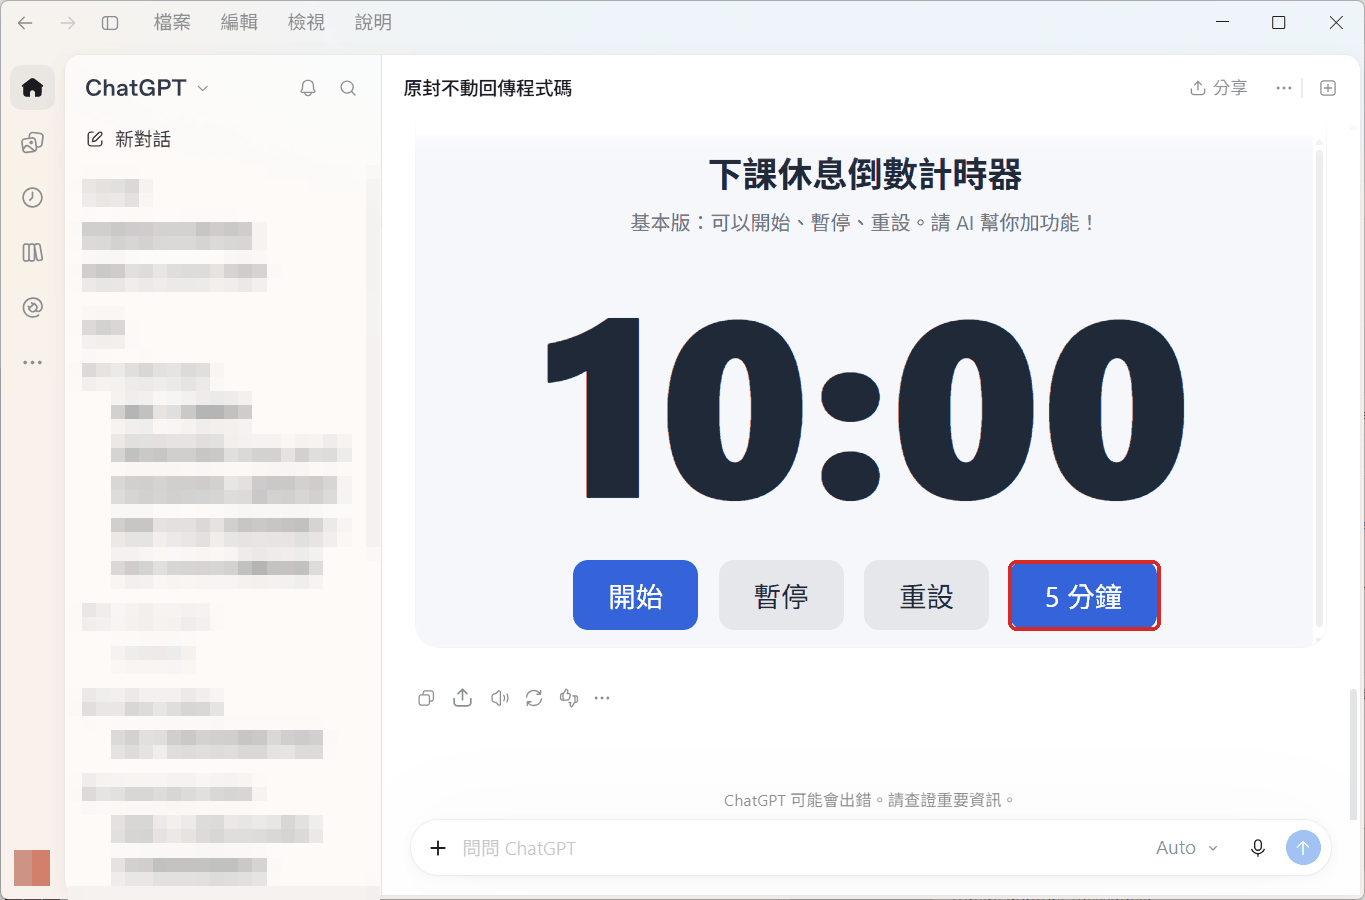
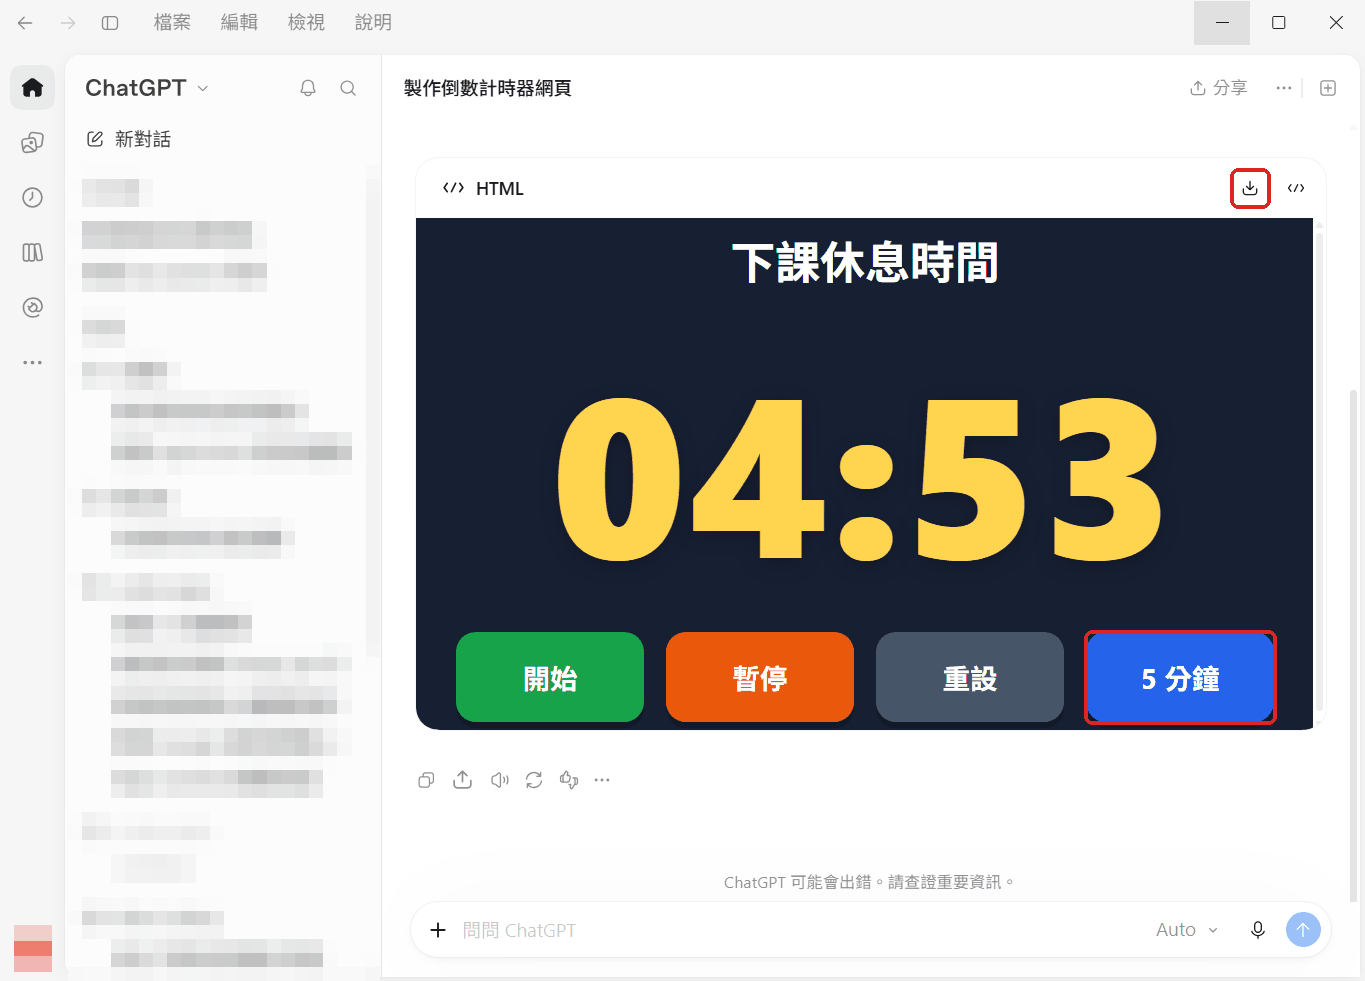
更新教學網站：連接資料夾步驟改用實機確認的文字並附截圖；暖身重拍預覽截圖、改用預覽的下載圖示存檔

diff --git a/course-data.js b/course-data.js
@@ -156,7 +156,7 @@ window.COURSE = {
     safety: '課堂只用講師提供的假資料。不要把真實員工、病人資料、帳號密碼、公司機密貼給 AI。',
     folderTree: `桌面/
 └── AI實作/
-    ├── timer.html         ← 單元一：貼上工具下載
+    ├── timer.html         ← 單元一：聊天預覽的下載圖示存檔後改名（或貼上工具下載）
     ├── signin.html        ← 單元三：先放基本版，再由 Codex 直接補上三個功能
     ├── signin.db          ← 單元三：報名簽到表的資料庫檔（按「連接資料夾」後自動產生）
     ├── AGENTS.md          ← 單元三：網站下載（Codex 開工前會讀）
@@ -184,8 +184,9 @@ window.COURSE = {
     ['雙擊 HTML 用了奇怪的程式打開', '在檔案上按右鍵 → 開啟檔案 → 選 Chrome 或 Edge'],
     ['改了程式，畫面沒變', '瀏覽器按 F5 重新整理'],
     ['報名簽到表的資料不見了（換了瀏覽器或電腦）', '資料在 `AI實作/signin.db`，不在瀏覽器裡。用 Chrome 或 Edge 打開 `signin.html`，按「連接資料夾」選同一個 `AI實作` 就接得上；換電腦就把整個 `AI實作` 資料夾帶過去'],
-    ['上方出現「重新連接資料夾」', '瀏覽器重新打開後，要再允許一次才能讀寫資料夾：按這個按鈕，瀏覽器詢問時選同意（如果有「每次都允許」之類的選項也可以選）'],
-    ['選「桌面」本身時，瀏覽器不讓選', '不要選「桌面」本身，要點進桌面、選裡面的 `AI實作`'],
+    ['上方出現「重新連接資料夾」', '關掉瀏覽器再打開時會這樣（按 F5 不會）：按這個按鈕，問「允許此網站編輯檔案？」時按「允許」'],
+    ['選資料夾時出現「無法開啟此資料夾…因為其包含系統檔案」', '你選到「桌面」本身了：按「選擇其他資料夾」，點一下桌面上的 `AI實作` 再按「選擇資料夾」'],
+    ['不小心按了「不允許」', '資料不會保存：再按一次「連接資料夾」（或「重新連接資料夾」），這次按「允許」'],
     ['選錯資料夾了', '按上方的「換資料夾」，重新選 `AI實作`；畫面上的資料會寫進新選的資料夾'],
     ['出現「存檔失敗」或「找不到資料夾」', '按上方的「重新連接資料夾」或「連接資料夾」重新選 `AI實作`，畫面上的資料會再寫回 `signin.db`'],
     ['`signin.html` 打開是空白頁', '確認有網路（資料庫元件從網路載入）；按 F12 看 Console 紅字，用「錯誤回報四件套」交給 AI'],
@@ -228,14 +229,14 @@ window.COURSE = {
         { name: 'app-switch.png', kind: 'screenshot', status: 'ready', alt: '左上角選單切換 ChatGPT 與 Codex', spec: '左上角「ChatGPT ⌄」下拉選單：ChatGPT 與 Codex 兩個選項' },
         { name: 'app-codex.png', kind: 'screenshot', status: 'ready', alt: 'Codex 畫面', spec: 'Codex 畫面：標出「選擇專案」與輸入框旁的存取權限' },
         { name: 'app-codex-folder.png', kind: 'screenshot', status: 'ready', alt: 'Codex 選擇專案的清單', spec: '「選擇專案」彈出清單：標出「新專案」' },
-        { name: 'app-preview.png', kind: 'screenshot', status: 'ready', alt: '聊天回覆裡直接跑的計時器', spec: '暖身：按 ▷ 後回覆渲染成可操作的計時器，標出「5 分鐘」按鈕' },
+        { name: 'app-preview.png', kind: 'screenshot', status: 'ready', alt: '聊天回覆裡直接跑的計時器', spec: '暖身：用說的生成後按 ▷，回覆渲染成可操作的計時器；標出「5 分鐘」按鈕與預覽框的下載圖示' },
         { name: 'app-usage.png', kind: 'screenshot', status: 'ready', alt: '頭像選單的剩餘用量', spec: '左下角頭像 → 剩餘用量：免費方案按月、顯示剩餘 % 與重置日（姓名打馬賽克）' }
       ],
       tasks: [
         { id: 'd1-u1-t1', section: 'u1-s4', label: '登入 ChatGPT 桌面版，開一個一般聊天（不是 Codex，切換鈕也不是「工作」）' },
         { id: 'd1-u1-t2', section: 'u1-s4', label: '在桌面建立 `AI實作` 資料夾（下載的檔案都移到這裡）' },
         { id: 'd1-u1-t3', section: 'u1-s4', label: '在一般聊天用說的請 AI 做出倒數計時器（含「5 分鐘」按鈕與時間到變綠色），按 ▷ 在聊天裡先試' },
-        { id: 'd1-u1-t4', section: 'u1-s4', label: '確認能用後，把程式複製到貼上工具下載成 `timer.html` 並打開' }
+        { id: 'd1-u1-t4', section: 'u1-s4', label: '確認能用後，按預覽的下載圖示存檔（或用貼上工具），放進 `AI實作` 改名 `timer` 並打開' }
       ],
       sections: [
         {
@@ -351,7 +352,7 @@ window.COURSE = {
               '在 ChatGPT 桌面版**開一個一般聊天**（不是 Codex，切換鈕也不是「工作」），貼上下面的提示詞送出。',
               'AI 回覆後**在聊天裡先試**：回覆是程式碼框就按右上角的 ▷，計時器會直接出現在回覆裡（有時會自動出現）；按「5 分鐘」、「開始」看會不會倒數。',
               '想改就在同一個聊天接著說，例如「數字再大一點」「背景換成深藍色」；有問題就用下面「有問題時」的提示詞。每個人做出來的樣子不一樣沒關係，下面的驗收項目做到就好。',
-              '能用就按程式碼框右上角的「複製」→ 打開[貼上工具](tool.html)，確認檔名是 `timer.html` → 貼上 →「下載」，把 `timer.html` 移到 `AI實作` 資料夾，雙擊打開。聊天裡的預覽關掉就沒了，所以一定要下載。'
+              '能用就按預覽框右上角的**下載圖示**：檔案會存到「下載」資料夾、叫 `preview.html`，把它移到 `AI實作` 資料夾、改名成 `timer`，雙擊打開。沒看到下載圖示，就按程式碼框的「複製」→ 打開[貼上工具](tool.html) → 貼上 →「下載」。聊天裡的預覽關掉就沒了，所以一定要存檔。'
             ] },
             { type: 'prompt', id: 'p-warmup-1', title: '用說的做出休息倒數計時器', note: '暖身：一般聊天，直接貼上送出', text:
 `我是完全不會寫程式的行政人員，想要一個下課休息用的倒數計時器網頁，會投影在教室前面。請幫我做：
@@ -360,7 +361,7 @@ window.COURSE = {
 3. 時間到的時候，整個畫面變成綠色，顯示「休息結束，回座囉！」
 4. 畫面文字用繁體中文；做成一個 HTML 檔，CSS 和 JavaScript 都寫在裡面，不要用外部套件
 請回傳完整的程式，放在一個程式碼區塊裡。` },
-            { type: 'image', name: 'app-preview.png', alt: 'ChatGPT 回覆裡直接顯示可操作的計時器，有「5 分鐘」按鈕', caption: '按 ▷ 之後，計時器直接在回覆裡跑：先按「5 分鐘」再按「開始」，確認會倒數。圖是講師的示範，你做出來的樣子會不一樣' },
+            { type: 'image', name: 'app-preview.png', alt: 'ChatGPT 回覆裡直接顯示可操作的計時器，有「5 分鐘」按鈕', caption: '按 ▷ 之後，計時器直接在回覆裡跑：先按「5 分鐘」再按「開始」，確認會倒數；右上角框起來的下載圖示可以直接存成檔案。2026-10 講師用免費方案實測（你做出來的樣子會不一樣）' },
             { type: 'text', body: '預覽有問題時，在同一個聊天補一句：' },
             { type: 'prompt', id: 'p-warmup-2', title: '有問題時', note: '暖身：同一個聊天接著問', text:
 `我在[預覽裡／存成 timer.html 打開後]，[發生了什麼，例如：按「5 分鐘」沒反應]。
@@ -669,6 +670,8 @@ function attendanceText(courseId) {
         { name: 'u3-prompt.webp', kind: 'diagram', status: 'ready', alt: '四段式指令拆解', spec: '四段式指令（目標、範圍、限制、驗收）拆解一段好提示詞（手繪 SVG）' },
         { name: 'u3-result.png', kind: 'screenshot', status: 'planned', alt: '完成的報名簽到表畫面', spec: '完成的報名簽到表畫面（講師示範版截圖）' },
         // 下午 Codex 實作的 App 截圖（2026-10 免費帳號實測；不計入插圖上限）
+        { name: 'app-fsa-allow.png', kind: 'screenshot', status: 'ready', alt: '允許此網站編輯檔案的提示', spec: '連接資料夾時的權限提示：框出「允許」（深色的是「不允許」）' },
+        { name: 'app-fsa-connected.png', kind: 'screenshot', status: 'ready', alt: '已連接資料庫檔的提醒列', spec: '連接成功的藍色提醒列：AI實作／signin.db 與「換資料夾」；網址列的使用者名稱打馬賽克' },
         { name: 'app-codex-newproject.png', kind: 'screenshot', status: 'ready', alt: '建立專案視窗', spec: 'Codex「新專案」的建立專案視窗：標出專案名稱與來源資料夾的「新增」' },
         { name: 'app-codex-trust.png', kind: 'screenshot', status: 'ready', alt: '信任資料夾確認視窗', spec: '「要信任這個資料夾嗎」：標出「信任資料夾」' },
         { name: 'app-codex-done.png', kind: 'screenshot', status: 'ready', alt: 'Codex 做完的畫面', spec: 'Codex 做完：畫面驗收步驟、已編輯 signin.html +45 −6、查看變更' },
@@ -753,9 +756,11 @@ function attendanceText(courseId) {
             { type: 'heading', text: '先看基本版（5 分）' },
             { type: 'list', ordered: true, items: [
               '在本節最下方的素材按 `signin_基本版.html` 的「下載」（下載的檔名就是 `signin.html`），移到桌面的 `AI實作` 資料夾。',
-              '雙擊 `signin.html` 用 **Chrome 或 Edge** 打開。上方黃色提醒列按「連接資料夾」→ 點進桌面、選 `AI實作` → 按「選擇資料夾」→ 瀏覽器詢問能不能編輯這個資料夾的檔案時，選同意（按鈕文字依瀏覽器版本略有不同）。提醒列變成「已連接資料庫檔：AI實作／signin.db」，資料夾裡多了一個 `signin.db`——這就是資料庫。',
+              '雙擊 `signin.html` 用 **Chrome 或 Edge** 打開。上方黃色提醒列按「連接資料夾」→ 跳出「選取此網站可儲存變更的位置」視窗（會從桌面開始）→ 點一下 `AI實作` → 按「選擇資料夾」→ 問「允許此網站編輯檔案？」時按**「允許」**（顏色比較深的那顆是「不允許」，別按錯）。提醒列變成「已連接資料庫檔：AI實作／signin.db」，資料夾裡多了一個 `signin.db`——這就是資料庫。',
               '照下面逐項點一遍：'
             ] },
+            { type: 'image', name: 'app-fsa-allow.png', alt: '瀏覽器詢問「允許此網站編輯檔案？」，下方有「允許」與顏色較深的「不允許」兩顆按鈕', caption: '選好 AI實作 後會問「允許此網站編輯檔案？」：按「允許」（框起來的那顆）。2026-10 講師用 Edge 實測，Chrome 相同' },
+            { type: 'image', name: 'app-fsa-connected.png', alt: '提醒列變成藍色「已連接資料庫檔：AI實作／signin.db（每次變更自動存檔）」，右邊有「換資料夾」', caption: '連接成功：提醒列變藍色，之後每次變更都自動寫進 AI實作 裡的 signin.db；選錯資料夾按右邊的「換資料夾」' },
             { type: 'list', check: true, items: [
               '兩堂示範課程，消防安全講習顯示 4 / 40 人',
               '新增一堂課，清單立刻出現',
@@ -798,7 +803,7 @@ function attendanceText(courseId) {
               '出席率：消防安全講習 75%（簽到林志明後）、個資保護與資安宣導 0%；新增一堂沒人報名的課 → 顯示「—」',
               '匯出 CSV：在消防安全講習按「匯出 CSV」，用 Excel 打開 → 中文正常、4 筆資料、有簽到狀態與時間'
             ] },
-            { type: 'note', tone: 'ok', body: '**按 F5 重新整理看看**：資料還在。程式在 `signin.html`、資料在 `signin.db`，Codex 改的是程式，不會動到資料庫。上方若出現「重新連接資料夾」，按一下、瀏覽器詢問時同意就好。' },
+            { type: 'note', tone: 'ok', body: '**按 F5 重新整理看看**：資料還在。程式在 `signin.html`、資料在 `signin.db`，Codex 改的是程式，不會動到資料庫。按 F5 會自動接回；只有關掉瀏覽器再打開時，才要按「重新連接資料夾」→「允許」。' },
             { type: 'text', body: '沒通過的項目：在同一個 Codex 對話貼「錯誤回報四件套」（單元二「用 AI 找錯與修正程式碼」的提示詞），最後加一句「只改那個函式」；改完按 F5 再測同一項。' },
             { type: 'note', tone: 'warn', body: '**Codex 額度用完或做不出來？** 在本節素材按 `signin_完成版.html` 的「下載」（檔名也是 `signin.html`），覆蓋 `AI實作` 裡的 `signin.html`（`signin.db` 不用動，資料都還在），接著做後面的驗收與 Code Review，不要再花時間重試。做到一半的也一樣：下載完成版最快。' },
             { type: 'materials', names: ['signin_基本版.html', 'signin_完成版.html'] }
@@ -834,7 +839,7 @@ function attendanceText(courseId) {
           id: 'u3-s5', title: '【實作演練 2-B】測試、除錯與 Code Review', time: '15:55–16:20', minutes: 25, kind: 'lab',
           blocks: [
             { type: 'heading', text: '步驟 1：跑驗收清單（10 分）' },
-            { type: 'text', body: '用 `AI實作` 裡的 `signin.html` 測（上方出現「重新連接資料夾」就按一下，瀏覽器詢問時同意）。先按頁面最下方的「重設為示範資料」，再照《成品驗收清單》逐項測試並打勾；第 12 項要打開 `AI實作` 資料夾，確認有 `signin.db`。' },
+            { type: 'text', body: '用 `AI實作` 裡的 `signin.html` 測（上方出現「重新連接資料夾」就按一下，再按「允許」）。先按頁面最下方的「重設為示範資料」，再照《成品驗收清單》逐項測試並打勾；第 12 項要打開 `AI實作` 資料夾，確認有 `signin.db`。' },
             { type: 'materials', names: ['成品驗收清單.md'] },
             { type: 'text', body: '沒通過的項目：在同一個 Codex 對話貼「錯誤回報四件套」（單元二「用 AI 找錯與修正程式碼」的提示詞），最後加一句「只改那個函式」；改完按 F5 再測同一項。Codex 額度用完的人：把沒過的項目記下來，額度恢復後再修。' },
             { type: 'heading', text: '步驟 2：Code Review 與弱點掃描（10 分）' },

diff --git a/course-package/materials/成品驗收清單.md b/course-package/materials/成品驗收清單.md
@@ -25,7 +25,7 @@
 | 9 | 看課程清單的「消防安全講習」 | 出席率從 50% 變成 75% | R5 | □ |
 | 10 | 看第 2 項新增的「感染管制教育訓練」 | 出席率顯示「—」 | R5 | □ |
 | 11 | 在「消防安全講習」按「匯出 CSV」，用 Excel 打開 | 中文正常不亂碼；4 列資料；有簽到狀態與簽到時間 | R6 | □ |
-| 12 | 看 `AI實作` 資料夾；再按 F5 重新整理（要求連接時按「重新連接資料夾」） | 資料夾裡有 `signin.db`；第 2、4、8 項做的資料都還在 | R7 | □ |
+| 12 | 看 `AI實作` 資料夾；再按 F5 重新整理 | 資料夾裡有 `signin.db`；重新整理後自動讀回，第 2、4、8 項做的資料都還在（關掉瀏覽器再開時，先按「重新連接資料夾」→「允許」） | R7 | □ |
 
 ## C. 安全測試（弱點掃描）
 
